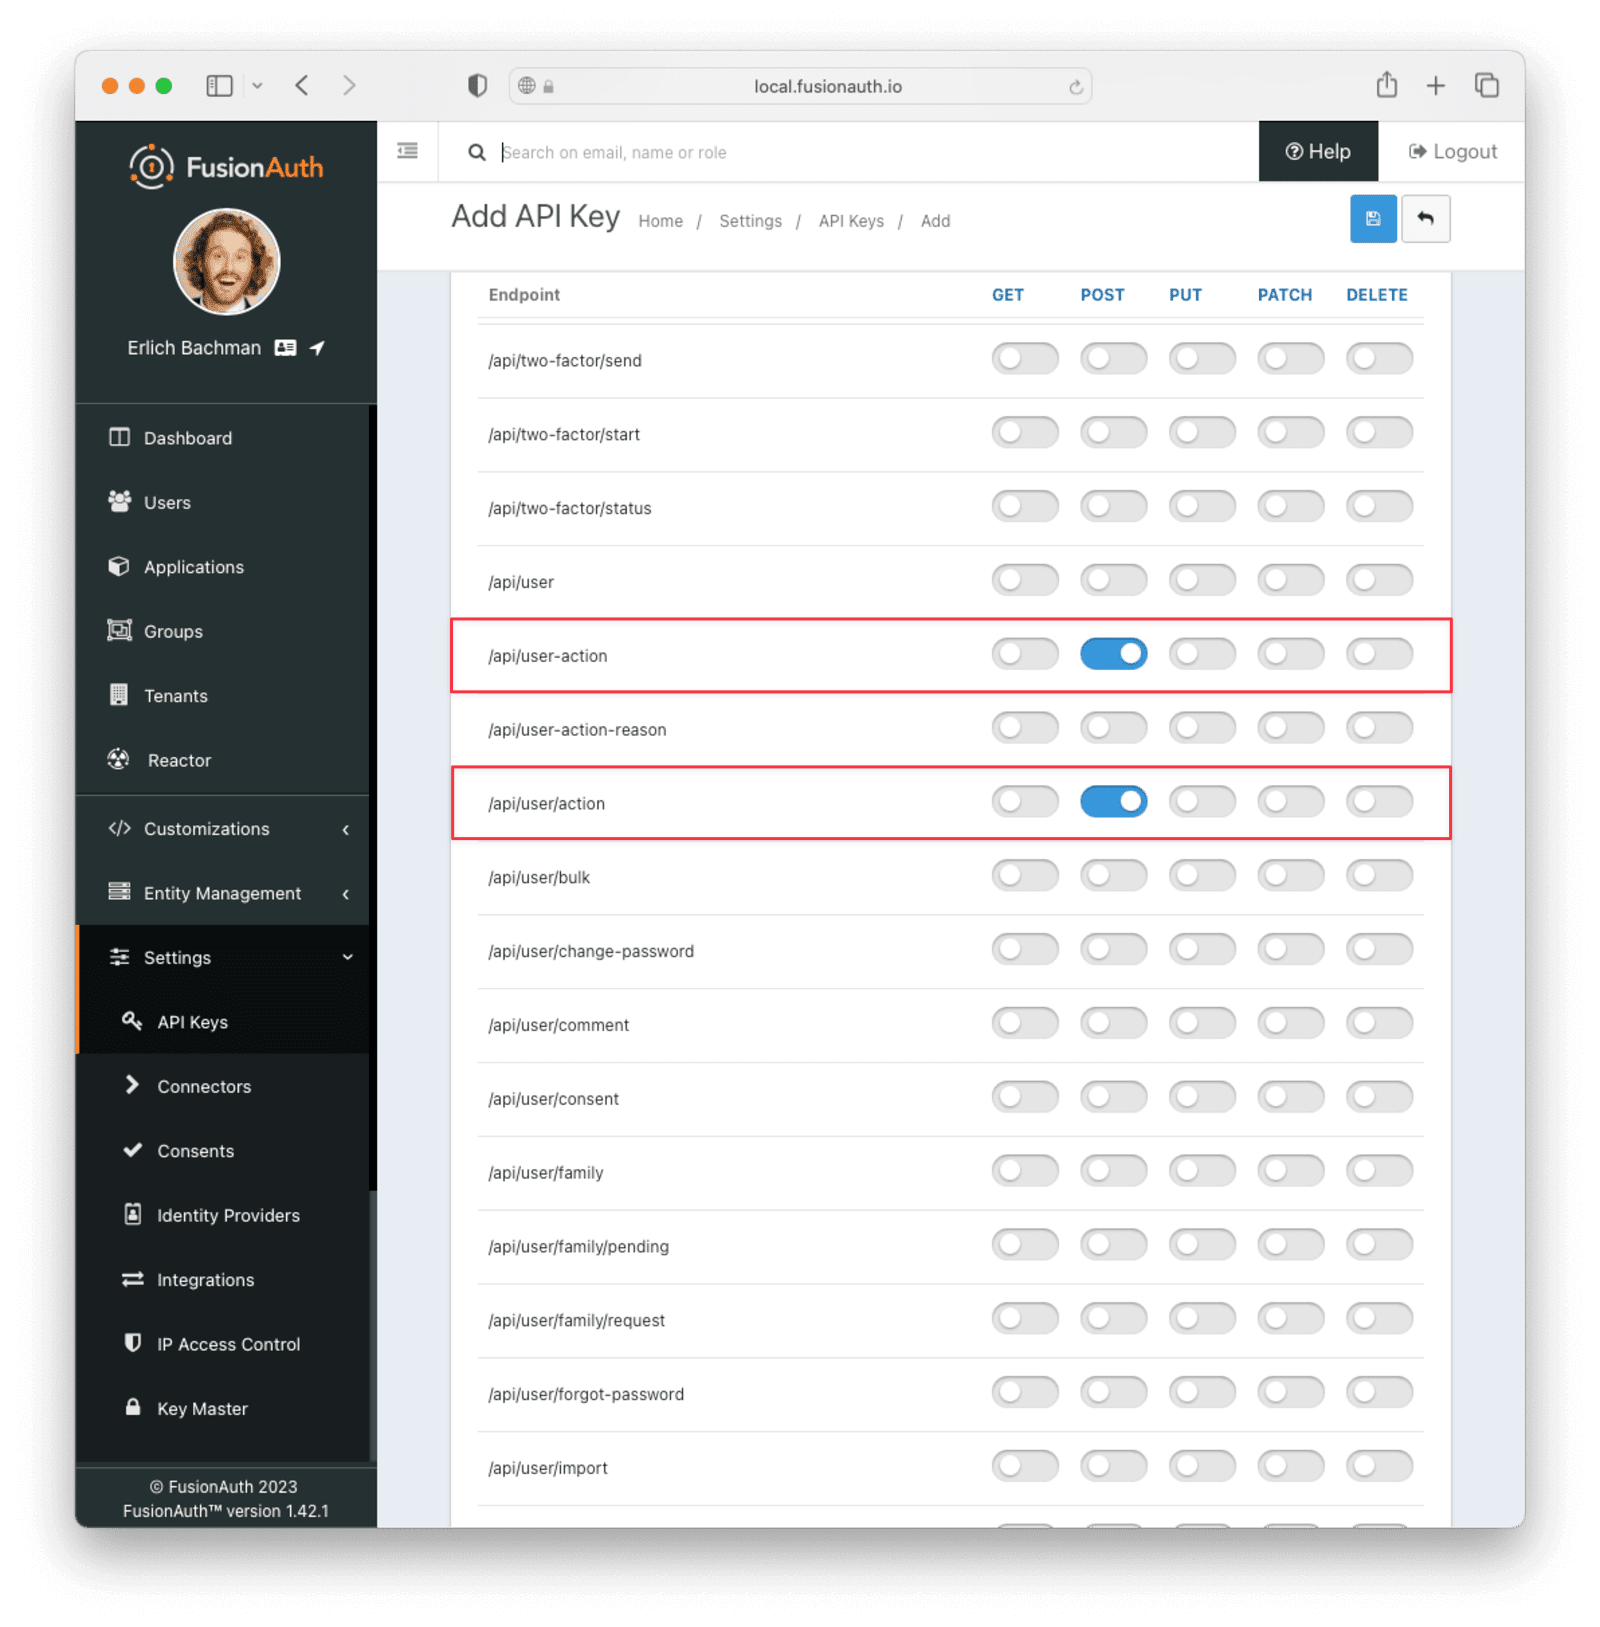
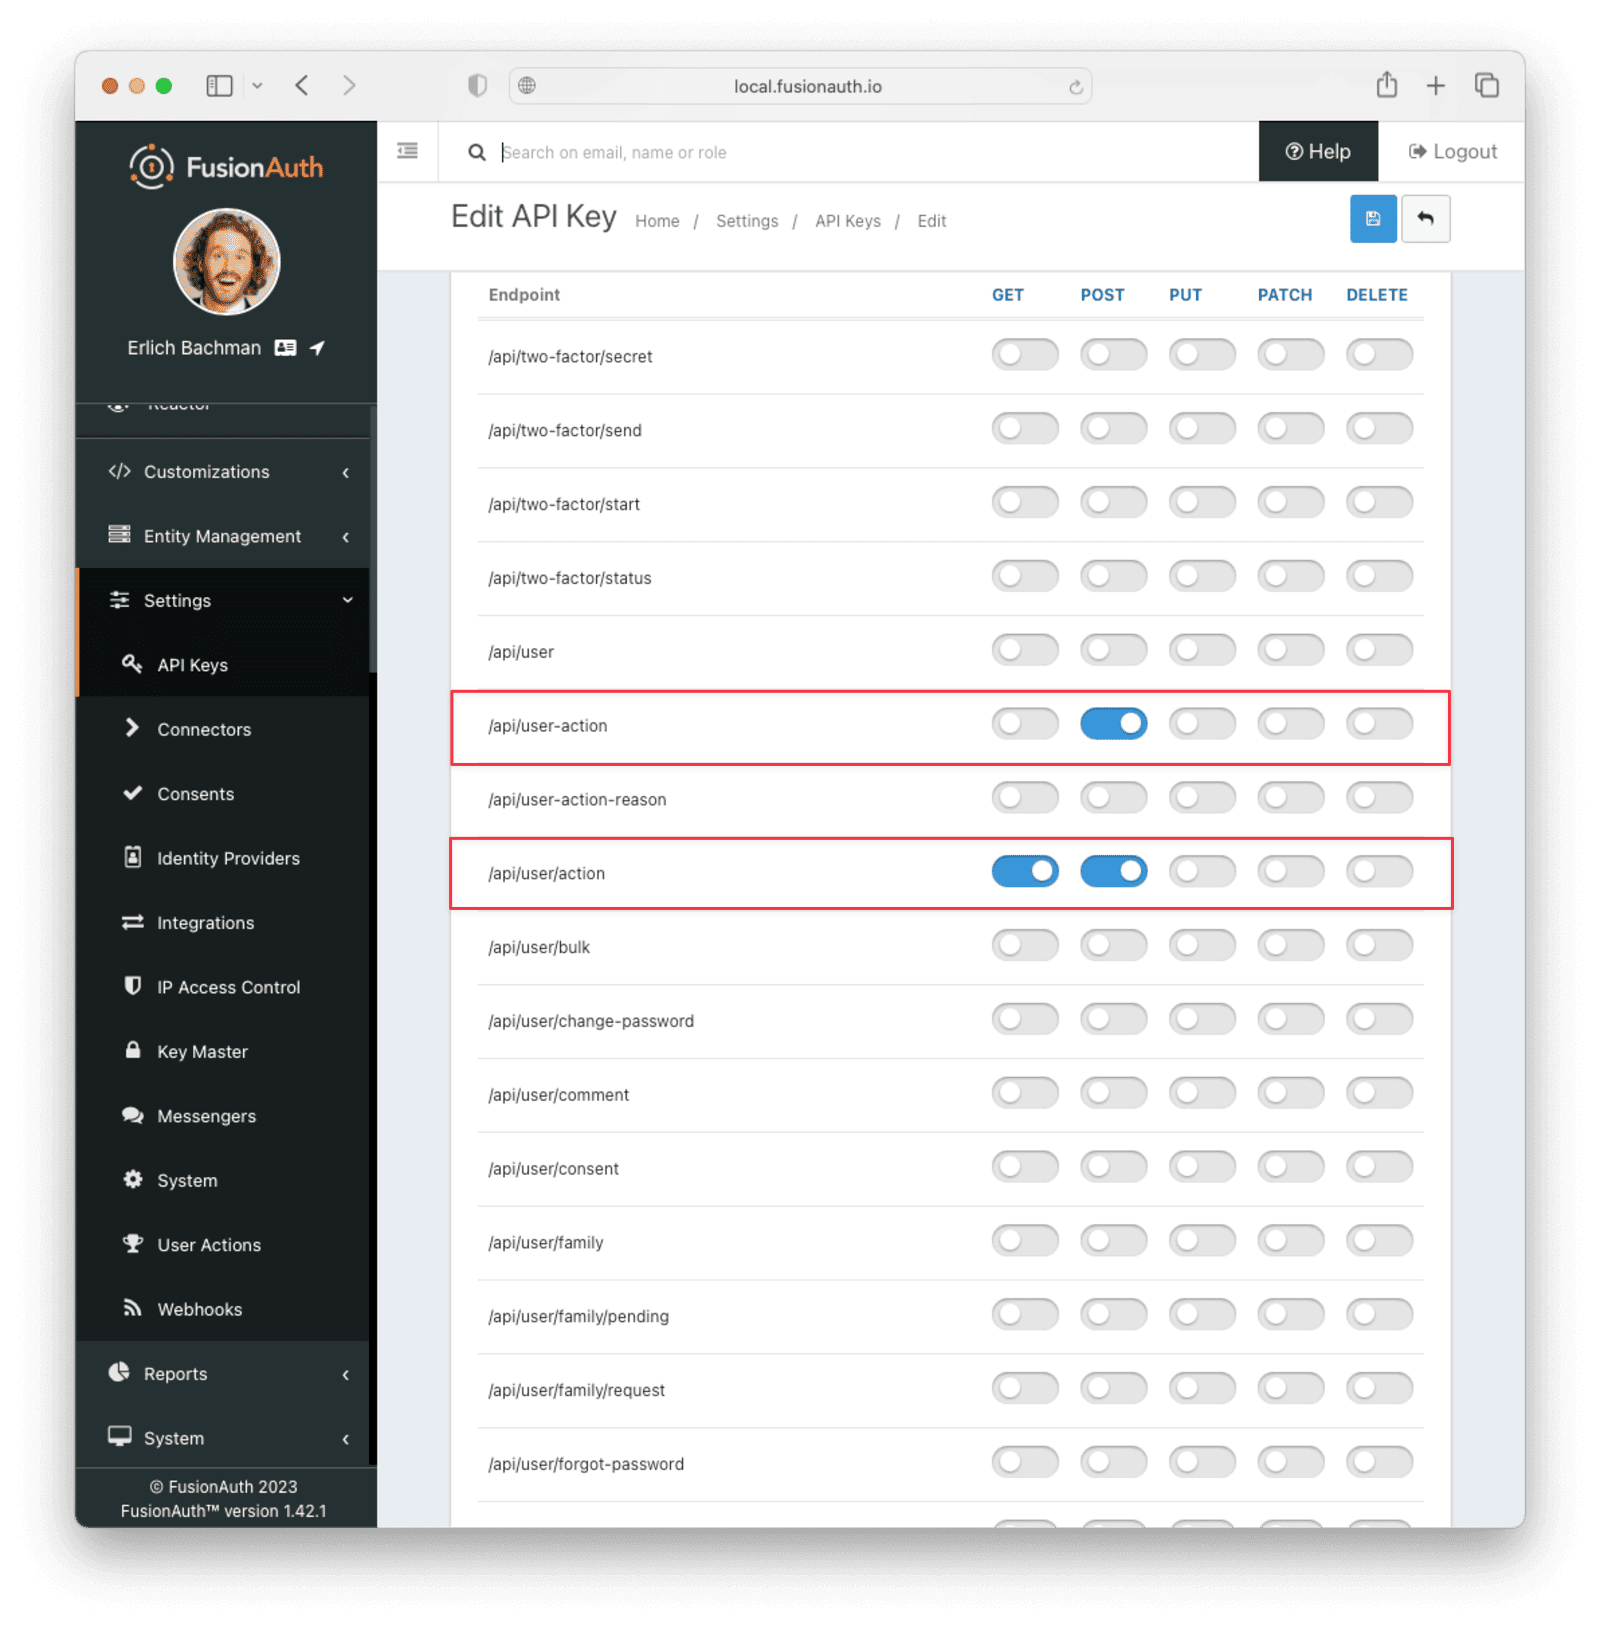
formatting updates

diff --git a/site/_posts/2023-02-10-using-user-actions.md b/site/_posts/2023-02-10-using-user-actions.md
@@ -28,7 +28,7 @@ Explanations will be provided for everything that is used, but you'll need:
 
 There are [various ways](/docs/v1/tech/installation-guide/) to install FusionAuth depending on your system, but the easiest way is to use Docker and Docker Compose. Instructions are [here](/docs/v1/tech/installation-guide/docker). Currently, if you have Docker installed, you can run the following commands to install and run FusionAuth:
 
-```bash
+```sh
 curl -o docker-compose.yml https://raw.githubusercontent.com/FusionAuth/fusionauth-containers/master/docker/fusionauth/docker-compose.yml
 curl -o .env https://raw.githubusercontent.com/FusionAuth/fusionauth-containers/master/docker/fusionauth/.env
 docker-compose up
@@ -74,7 +74,7 @@ Record the Ids of both users. These will be UUIDs, and might look like `c49f5a75
  
 You will create and execute the User Action using API calls. Most API calls to FusionAuth are privileged and require an API key, so you'll need to set one up.
 
-To do so, navigate to "Settings" then "API Keys" and click the "Add" button. Make sure `POST` is enabled for both the `/api/user-action` and `/api/user/action` endpoints. You will use the former to create a User Action and the latter to execute it.
+To do so, navigate to "Settings" then "API Keys" and click the "Add" button. Make sure `POST` is enabled for the `/api/user-action` and both `POST` and `GET` are enabled for the `/api/user/action` endpoints. You will use the former to create a User Action and the latter to execute it.
 
 You are creating an API Key with only the privileges needed, an example of the principle of least privilege, a good security practice.
  
@@ -145,20 +145,20 @@ You can now create a [User Action definition](https://fusionauth.io/docs/v1/tech
  
 ```sh
 curl --location --request POST '<YOUR_FUSIONAUTH_BASE_URL>/api/user-action' \
- --header 'Authorization: <YOUR API KEY>' \
- --header 'Content-Type: application/json' \
- --data-raw '{
- "userAction": {
-    "name": "Bought Temporary Access",
-    "startEmailTemplateId": "5eaf58e7-2e5a-4eea-94b8-74a707724f7b",
-    "endEmailTemplateId": "18490dc2-b3d4-462f-9a8e-882b4fb4e76f",
-    "modifyEmailTemplateId": "2011460f-bd11-4134-ba8a-9d4c6c4a23ae",
-    "cancelEmailTemplateId": "981a1ecf-4a1d-44b8-8211-3215cb80319f",
-    "temporal": true,
-    "userEmailingEnabled": true,
-    "sendEndEvent": true
-  }
- }'
+  --header 'Authorization: <YOUR API KEY>' \
+  --header 'Content-Type: application/json' \
+  --data-raw '{
+  "userAction": {
+     "name": "Bought Temporary Access",
+     "startEmailTemplateId": "5eaf58e7-2e5a-4eea-94b8-74a707724f7b",
+     "endEmailTemplateId": "18490dc2-b3d4-462f-9a8e-882b4fb4e76f",
+     "modifyEmailTemplateId": "2011460f-bd11-4134-ba8a-9d4c6c4a23ae",
+     "cancelEmailTemplateId": "981a1ecf-4a1d-44b8-8211-3215cb80319f",
+     "temporal": true,
+     "userEmailingEnabled": true,
+     "sendEndEvent": true
+   }
+  }'
 ```
 
 In this command, replace `<YOUR_FUSIONAUTH_BASE_URL>` with the URL of your FusionAuth instance, `<YOUR API KEY>` with the API key noted earlier, and the `startEmailTemplateId`, `endEmailTemplateId`, `modifyEmailTemplateId`, and `cancelEmailTemplateId` with appropriate values.
@@ -167,25 +167,25 @@ FusionAuth should return something similar to the following:
 
 ```json
 {
- "userAction": {
-  "active": true,
-  "cancelEmailTemplateId": "981a1ecf-4a1d-44b8-8211-3215cb80319f",
-  "endEmailTemplateId": "18490dc2-b3d4-462f-9a8e-882b4fb4e76f",
-  "id": "6f4115c0-3db9-4734-aeda-b9c3f7dc4269",
-  "includeEmailInEventJSON": false,
-  "insertInstant": 1674937446558,
-  "lastUpdateInstant": 1674937446558,
-  "modifyEmailTemplateId": "2011460f-bd11-4134-ba8a-9d4c6c4a23ae",
-  "name": "Bought Temporary Access",
-  "options": [],
-  "preventLogin": false,
-  "sendEndEvent": true,
-  "startEmailTemplateId": "5eaf58e7-2e5a-4eea-94b8-74a707724f7b",
-  "temporal": true,
-  "transactionType": "None",
-  "userEmailingEnabled": true,
-  "userNotificationsEnabled": false
- }
+  "userAction": {
+    "active": true,
+    "cancelEmailTemplateId": "981a1ecf-4a1d-44b8-8211-3215cb80319f",
+    "endEmailTemplateId": "18490dc2-b3d4-462f-9a8e-882b4fb4e76f",
+    "id": "6f4115c0-3db9-4734-aeda-b9c3f7dc4269",
+    "includeEmailInEventJSON": false,
+    "insertInstant": 1674937446558,
+    "lastUpdateInstant": 1674937446558,
+    "modifyEmailTemplateId": "2011460f-bd11-4134-ba8a-9d4c6c4a23ae",
+    "name": "Bought Temporary Access",
+    "options": [],
+    "preventLogin": false,
+    "sendEndEvent": true,
+    "startEmailTemplateId": "5eaf58e7-2e5a-4eea-94b8-74a707724f7b",
+    "temporal": true,
+    "transactionType": "None",
+    "userEmailingEnabled": true,
+    "userNotificationsEnabled": false
+  }
 }
 ```
 
@@ -197,7 +197,7 @@ Record the `id` value. Here, it is `6f4115c0-3db9-4734-aeda-b9c3f7dc4269`. You c
 
 To propagate a message when a user action is taken to the sister news sites, you can set up a webhook. To do this, navigate to "Settings" then "Webhooks" and click the "Add" button. To simulate the endpoint of the sister news site that will consume the user action information, you can use [https://requestbin.com](https://requestbin.com). If you create a request bin, it will generate a unique URL of the form `https://<YOUR_WEBHOOK_SITE_ID>.x.pipedream.net`. Copy this URL into the "URL" field.
  
-{% include _image.liquid src="/assets/img/blogs/fusionauth-user-actions/user-actions-add-webhook.png" alt="Add a new Webhook to your RequestBin." class="img-fluid" figure=false %}
+{% include _image.liquid src="/assets/img/blogs/fusionauth-user-actions/user-actions-add-webhook.png" alt="Add a new Webhook from your RequestBin." class="img-fluid" figure=false %}
  
 Scroll down and make sure that the `user.action` event is enabled.
  
@@ -219,9 +219,9 @@ Finally, make sure to update `<YOUR_FUSIONAUTH_BASE_URL>` and `<YOUR API KEY>` w
  
 ```sh
 curl --location --request POST '<YOUR_FUSIONAUTH_BASE_URL>/api/user/action' \
- --header 'Authorization: <YOUR API KEY>' \
- --header 'Content-Type: application/json' \
- --data-raw '{
+  --header 'Authorization: <YOUR API KEY>' \
+  --header 'Content-Type: application/json' \
+  --data-raw '{
   "broadcast": true,
   "action": {
     "actioneeUserId": "12e22430-162c-4f7e-bf40-58f7a69a26ce",
@@ -238,20 +238,20 @@ FusionAuth will reply with `200 OK`:
 
 ```json
 {
- "action": {
-  "actioneeUserId": "12e22430-162c-4f7e-bf40-58f7a69a26ce",
-  "actionerUserId": "5ea819ea-6ff1-4b17-943f-eb2d1c246c3b",
-  "applicationIds": [],
-  "comment": "Signed up for 24 hour premium access",
-  "emailUserOnEnd": true,
-  "expiry": 1674939392664,
-  "id": "8ed1f910-4e62-4dd1-a88e-e45964b56e21",
-  "insertInstant": 1674938412450,
-  "localizedName": "Bought Temporary Access",
-  "name": "Bought Temporary Access",
-  "notifyUserOnEnd": false,
-  "userActionId": "6f4115c0-3db9-4734-aeda-b9c3f7dc4269"
- }
+  "action": {
+    "actioneeUserId": "12e22430-162c-4f7e-bf40-58f7a69a26ce",
+    "actionerUserId": "5ea819ea-6ff1-4b17-943f-eb2d1c246c3b",
+    "applicationIds": [],
+    "comment": "Signed up for 24 hour premium access",
+    "emailUserOnEnd": true,
+    "expiry": 1674939392664,
+    "id": "8ed1f910-4e62-4dd1-a88e-e45964b56e21",
+    "insertInstant": 1674938412450,
+    "localizedName": "Bought Temporary Access",
+    "name": "Bought Temporary Access",
+    "notifyUserOnEnd": false,
+    "userActionId": "6f4115c0-3db9-4734-aeda-b9c3f7dc4269"
+  }
 }
 ```
 
@@ -271,34 +271,34 @@ Depending on how you control access to your articles, you might want to check th
 
 ```sh
 curl --location --request GET '<YOUR_FUSIONAUTH_BASE_URL>/api/user/action?userId=<USER_ID>&active=true' \
---header 'Authorization: <YOUR API KEY>'
+  --header 'Authorization: <YOUR API KEY>'
 ```
 
 Replace `<YOUR_FUSIONAUTH_BASE_URL>` , `<YOUR API KEY>`, and `<USER_ID>` with the appropriate values. 
 
 FusionAuth will return an object with an array of all actions currently active on the user. You can filter the results to find the `userActionId` of the user action you set up above to test if the user has temporary access:
 
-```sh
+```json
 {
-    "actions": [
-        {
-            "actioneeUserId": "12e22430-162c-4f7e-bf40-58f7a69a26ce",
-            "actionerUserId": "5ea819ea-6ff1-4b17-943f-eb2d1c246c3b",
-            "applicationIds": [
-                "af4847c4-d183-4e51-ab8a-ce8940909127"
-            ],
-            "comment": "Signed up for 24 hour premium access",
-            "emailUserOnEnd": true,
-            "endEventSent": false,
-            "expiry": 1675890993000,
-            "id": "30e05e8f-fba6-4dd3-852c-abbc2d2e2461",
-            "insertInstant": 1675322145449,
-            "localizedName": "Bought Temporary Access",
-            "name": "Bought Temporary Access",
-            "notifyUserOnEnd": false,
-            "userActionId": "6f4115c0-3db9-4734-aeda-b9c3f7dc4269"
-        }
-    ]
+  "actions": [
+    {
+      "actioneeUserId": "12e22430-162c-4f7e-bf40-58f7a69a26ce",
+      "actionerUserId": "5ea819ea-6ff1-4b17-943f-eb2d1c246c3b",
+      "applicationIds": [
+        "af4847c4-d183-4e51-ab8a-ce8940909127"
+      ],
+      "comment": "Signed up for 24 hour premium access",
+      "emailUserOnEnd": true,
+      "endEventSent": false,
+      "expiry": 1675890993000,
+      "id": "30e05e8f-fba6-4dd3-852c-abbc2d2e2461",
+      "insertInstant": 1675322145449,
+      "localizedName": "Bought Temporary Access",
+      "name": "Bought Temporary Access",
+      "notifyUserOnEnd": false,
+      "userActionId": "6f4115c0-3db9-4734-aeda-b9c3f7dc4269"
+    }
+  ]
 }
 ```
 
